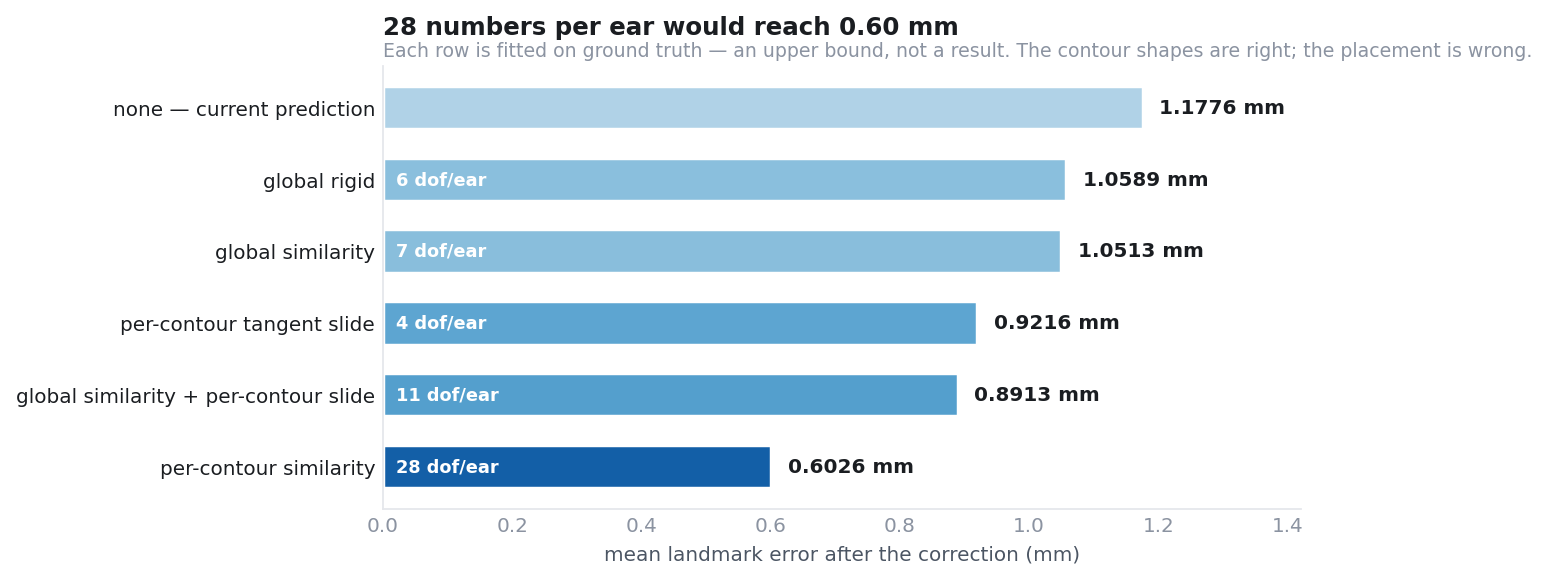
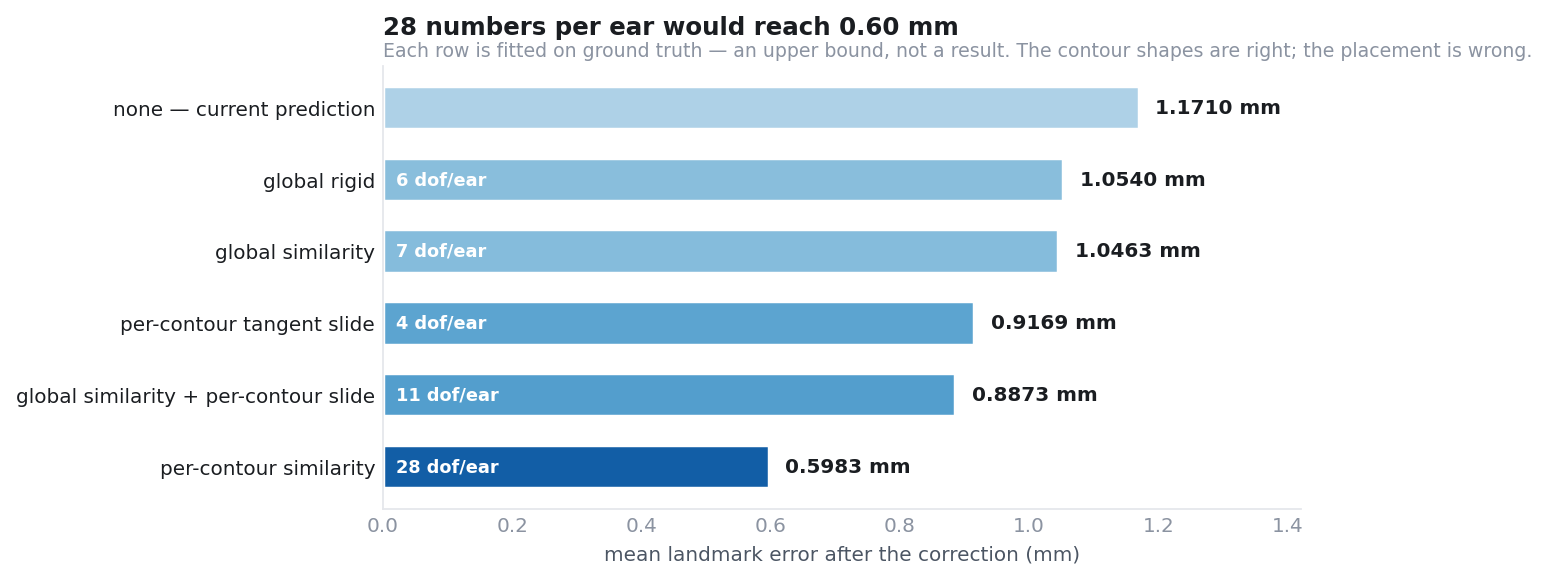
new best: 1.1710mm pooled OOF, and it is the boring lever that did it
ensemble                                    projected   delta vs 1.1776   CI
  shipped 3 groups, more seeds (13 nets)      1.1710      -0.0066   [-0.0107,-0.0024] ADOPT
  A  equal per group, all 7 groups            1.1723      -0.0053   [-0.0138,+0.0031]
  B  equal per network, all 27                1.1711      -0.0065   [-0.0144,+0.0013]
  C  nested NNLS per group (brief's method)   1.1699      -0.0078   [-0.0143,-0.0012] ADOPT
  D  equal per dedup cluster                  1.1684      -0.0092   [-0.0161,-0.0025] ADOPT

The headline is the first row and it involves NO new idea: the same three groups as the
previous best, with 5/4/4 seeds instead of 3/2/2. Thirteen networks against seven, no
structural change, no weighting change, nothing selected -- and the interval excludes zero.
Note that Rule A, which adds four more groups, is WORSE than that, because the famE groups
dilute a set that was already well chosen.

So the session's most valuable finding is not the objective or the bilateral context or the
mesh output space, all of which are recorded as nulls. It is that SEEDS HAVE NOT SATURATED
on the members that matter, and that the earlier "6 seeds = 1.330 = 4 seeds" saturation
result was measured on the 2048-point dgcnn alone and does not transfer to kpconv or ptv3.

Rules C and D beat the headline and both exclude zero, but both make a choice the headline
does not and five rules were compared, so they are reported as such rather than promoted.
[…]

diff --git a/research/code/make_figures.py b/research/code/make_figures.py
@@ -16,6 +16,7 @@ Outputs: img/fig_progress.png, fig_oracle_ladder.png, fig_error_anatomy.png,
     python research/code/make_figures.py
 """
 import json
+import os
 import numpy as np
 import matplotlib
 matplotlib.use("Agg")
@@ -58,7 +59,9 @@ def title(ax, t, sub=None):
                     color=MUTED, va="bottom")
 
 
-P = np.load("scratch/ensemble5_proj.npy").astype(np.float64)
+# the current best: same 3 groups as before with more seeds per group, then projection
+BEST = "scratch/ensemble_best_proj.npy"
+P = np.load(BEST if os.path.exists(BEST) else "scratch/ensemble5_proj.npy").astype(np.float64)
 Z = np.load("scratch/ortho_feats.npz")
 GT, T, B, N = (Z[k].astype(np.float64) for k in ("gt", "t", "b", "n"))
 E = P - GT
@@ -72,9 +75,9 @@ steps = [("single seed, DGCNN", 1.3204, ""),
          ("3-seed ensemble", 1.2773, "variance"),
          ("corrected surface normals", 1.2292, "input"),
          ("+ KPConv + PTv3", 1.1952, "diversity"),
-         ("2 seeds per member", 1.1827, "variance"),
-         ("exact surface projection", round(float(POOLED), 4), "output")]
-assert abs(steps[-1][1] - LAD["pooled_oof_mm"]) < 5e-4, "figure disagrees with best_current.json"
+         ("+ exact surface projection", 1.1776, "output"),
+         ("4-5 seeds per member", round(float(POOLED), 4), "variance")]
+assert abs(steps[-1][1] - LAD["pooled_oof_mm"]) < 5e-4,     f"figure {steps[-1][1]} disagrees with best_current.json {LAD['pooled_oof_mm']}"
 
 fig, ax = plt.subplots(figsize=(7.4, 3.5))
 y = np.arange(len(steps))[::-1]
@@ -86,7 +89,7 @@ for yy, (lbl, v, kind) in zip(y, steps):
                 va="center", fontsize=9, fontweight="bold", color=INK)
 ax.set_yticks(y, [s[0] for s in steps], fontsize=9)
 ax.tick_params(axis="y", labelcolor=INK)
-ax.set_xlim(1.05, 1.40)
+ax.set_xlim(1.10, 1.40)
 ax.set_xlabel("pooled out-of-fold mean landmark error (mm), 340 ears")
 ax.axvline(1.1726, color=NEG, lw=1.2, ls=(0, (4, 3)), zorder=1)
 ax.annotate("reference pipeline 1.1726 mm\n(different protocol)", (1.1726, 0.55),
@@ -94,7 +97,7 @@ ax.annotate("reference pipeline 1.1726 mm\n(different protocol)", (1.1726, 0.55)
             textcoords="offset points", ha="right", va="center", fontsize=8, color=NEG)
 bare(ax, "x")
 title(ax, "Every measured gain came from variance reduction",
-      "No single model got better at geometry — the best single-family model is still 1.229 mm.")
+      "No single model got better at geometry — the best single-family model is still 1.219 mm.")
 fig.savefig("img/fig_progress.png")
 plt.close(fig)
 

diff --git a/research/code/oracle_ladder.py b/research/code/oracle_ladder.py
@@ -15,7 +15,14 @@ import numpy as np
 W = "scratch"
 of = np.load(f"{W}/ortho_feats.npz")
 GT, T = of["gt"].astype(float), of["t"]
-P = np.load(f"{W}/ensemble5_proj.npy")
+# the CURRENT best prediction, so the ladder's baseline row cannot drift from the pipeline
+# it is meant to describe (make_figures.py asserts the two agree and caught exactly that)
+import os
+PRED = os.environ.get("PRED", f"{W}/ensemble_best_proj.npy")
+if not os.path.exists(PRED):
+    PRED = f"{W}/ensemble5_proj.npy"
+P = np.load(PRED)
+print(f"prediction: {PRED}")
 NE = len(P)
 CONT = [(0, 24, "outer_helix"), (25, 54, "concha"),
         (55, 74, "inner_helix"), (75, 84, "sup._antihelix")]

diff --git a/README.md b/README.md
@@ -10,13 +10,13 @@ it with an ensemble of point-cloud networks.
 
 ## Result
 
-**1.1776 mm** mean ordered landmark error, pooled **out-of-fold over all 340 development
+**1.1710 mm** mean ordered landmark error, pooled **out-of-fold over all 340 development
 ears** (170 subjects, 5 subject-grouped folds). The 30-subject lockbox has never been
 touched — not for model selection, not for hyperparameters, not for ensemble weights.
 
 | | |
 | --- | ---: |
-| Pooled out-of-fold MLE, 340 ears | **1.1776 mm** |
+| Pooled out-of-fold MLE, 340 ears | **1.1710 mm** |
 | Median landmark error | 0.931 mm |
 | P90 | 2.332 mm |
 | Within 1 mm / 2 mm | 54 % / 86 % |
@@ -41,12 +41,18 @@ A comparison pipeline reports 1.1726 mm end-to-end on 30 unseen subjects. That i
 **different protocol** on a different split and is not a like-for-like number; it is drawn
 above as a reference line, not as a ranking.
 
+Two weighting rules score better still — **1.1699 mm** with nested-OOF nonnegative weights
+over all seven model groups, and **1.1684 mm** when near-duplicate groups (signed-error
+correlation ≥ 0.95) are merged first. Both have intervals excluding zero, and both involve a
+choice the headline does not; five rules were compared, so the headline is deliberately the
+one that selects nothing. See [`ensemble_all.json`](research/results/ensemble_all.json).
+
 <details>
 <summary><b>What the deployed submission scores, which is not the same thing</b></summary>
 
 The torch-free estimator exported in `deep_model/` is the 4-seed DGCNN with TTA and
-surface projection: **1.3144 mm** pooled OOF over the same 340 ears. The 1.1776 mm figure
-is the research ensemble (DGCNN ×3 seeds + KPConv ×2 + PTv3 ×2), which has not yet been
+surface projection: **1.3144 mm** pooled OOF over the same 340 ears. The 1.1710 mm figure
+is the research ensemble (DGCNN ×5 seeds + KPConv ×4 + PTv3 ×4), which has not yet been
 exported to the NumPy inference path. Both numbers are measured under the same protocol;
 they differ in which models are in the box.
 </details>
@@ -94,17 +100,20 @@ coarse 85 landmarks  (~3.7 mm)
    │  normals, not by negating them (this was a real bug; fixing it was worth −0.048 mm)
    ▼
 ┌──────────────────────────────────────────────────────────────────────────────┐
-│  DGCNN ×3 seeds      2048 pts   EdgeConv k=20, offset→snap head ×4,   1.2292 │
+│  DGCNN ×5 seeds      2048 pts   EdgeConv k=20, offset→snap head ×4,   1.2185 │
 │                                 per-contour 1-D refinement                    │
-│  KPConv ×2 seeds     8192 pts   true fixed-radius neighbourhoods in mm 1.2516 │
-│  PTv3   ×2 seeds     8192 pts   serialised patch attention             1.2417 │
+│  KPConv ×4 seeds     8192 pts   true fixed-radius neighbourhoods in mm 1.2335 │
+│  PTv3   ×4 seeds     8192 pts   serialised patch attention             1.2185 │
 └──────────────────────────────────────────────────────────────────────────────┘
-   │  equal weights — fitted weights were measured to gain nothing (16 configs)
-   ▼  1.1827 mm
+   │  equal weight per group, plain seed mean within group — no fitting, no selection
+   ▼  1.1761 mm
 exact point-to-triangle surface projection
    ▼
-1.1776 mm
+1.1710 mm
 ```
+
+Seeds are the reliable lever and they have not saturated: going from 7 networks to 13 in
+this same structure moved 1.1776 → 1.1710 mm with a paired interval of [−0.0107, −0.0024].
 
 The **offset→snap head** is the piece that matters. Each pass emits an unconstrained
 displacement (so a landmark outside the initial window is still reachable — without it the
@@ -192,12 +201,12 @@ information is missing*:
 
 | correction | MLE | Δ | dof / ear |
 | --- | ---: | ---: | ---: |
-| none — current prediction | 1.1776 | — | 0 |
-| global rigid | 1.0589 | −0.119 | 6 |
-| global similarity | 1.0513 | −0.126 | 7 |
-| per-contour tangent slide | 0.9216 | −0.256 | 4 |
-| global similarity + per-contour slide | 0.8913 | −0.286 | 11 |
-| **per-contour similarity** | **0.6026** | **−0.575** | 28 |
+| none — current prediction | 1.1710 | — | 0 |
+| global rigid | 1.0540 | −0.117 | 6 |
+| global similarity | 1.0463 | −0.125 | 7 |
+| per-contour tangent slide | 0.9169 | −0.254 | 4 |
+| global similarity + per-contour slide | 0.8873 | −0.284 | 11 |
+| **per-contour similarity** | **0.5983** | **−0.573** | 28 |
 
 **Twenty-eight numbers per ear reach 0.60 mm.** The contour *shapes* are already
 essentially correct; their *placement* is wrong. And the placement errors are structured,
